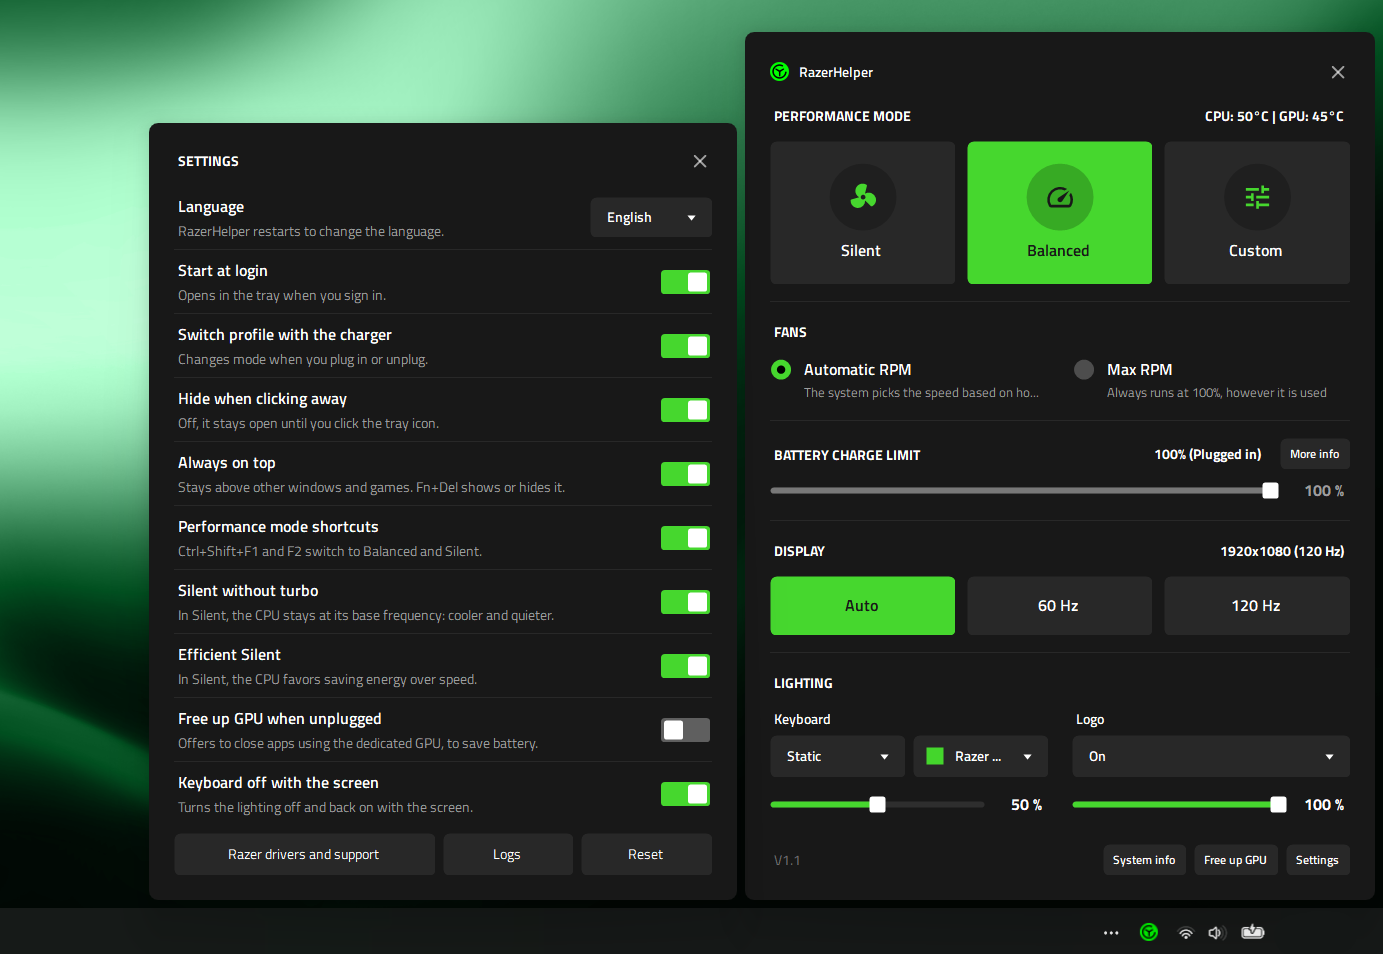
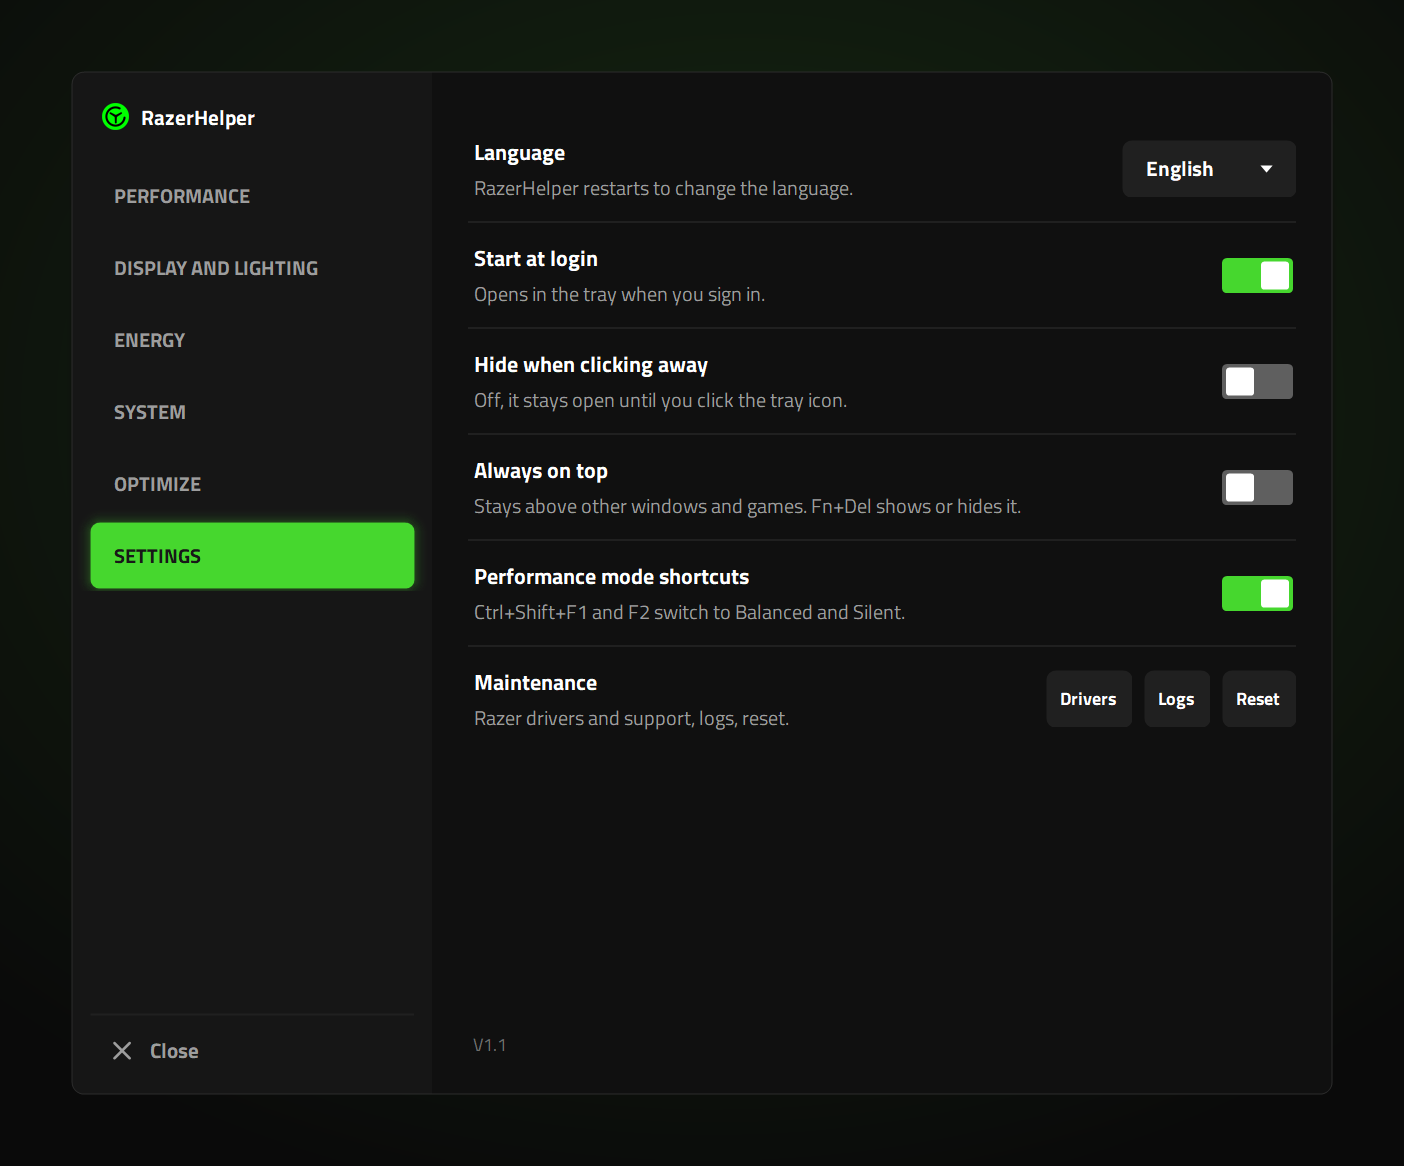
Shows every section in the README's previews, at 1.5 times the base size
One picture each of Performance, Custom, Display and lighting, Energy,
System, Optimize and Settings, with a short summary of each, in place of
the old previews of the single window.

diff --git a/README.md b/README.md
@@ -14,22 +14,42 @@ It lives in the system tray, talks to the laptop's controller directly, and need
 
 ## Preview
 
+One window, in sections, like Synapse: a sidebar on the left and the chosen section beside it.
+
+- **Performance:** Silent, Balanced and Custom as large buttons, with live CPU, GPU and RAM usage rings, temperatures and clocks under them, the fans, and the battery charge limit.
+- **Custom levels in place:** choosing Custom opens the CPU and GPU boost levels right under the modes.
+- **Display and lighting:** refresh rate (Auto, 60 Hz, 120 Hz), keyboard and logo effects with their brightness, and the keyboard off with the screen.
+- **Energy:** live battery details, a performance profile for plugged in and for on battery, and Windows' power plan, with one click to install the Razer Blade plan.
+- **System:** the model, Windows, CPU, both GPUs, RAM, BIOS and the drives with their space.
+- **Optimize:** free up memory, clean temporary files, and close the apps keeping the dedicated GPU awake.
+- **Settings:** language, start at login, hide when clicking away, always on top, performance mode shortcuts, and maintenance.
+
 <p align="center">
-  <img src="docs/images/preview-main.png" width="800" alt="RazerHelper on the desktop above the tray: performance modes (Balanced selected) with CPU and GPU temperatures, fans, battery charge limit, display refresh rate, lighting with keyboard and logo, and the footer buttons">
+  <img src="docs/images/preview-performance.png" width="800" alt="RazerHelper's Performance section: the Silent, Balanced and Custom mode buttons with Balanced selected, CPU, GPU and RAM usage rings with temperature, clock, memory speed and free memory, the fans set to automatic, and the battery charge limit">
 </p>
 
-On the desktop, with the Custom mode's CPU and GPU levels open beside the window, with Settings, and with System information:
-
 <p align="center">
-  <img src="docs/images/preview-custom.png" width="800" alt="RazerHelper on the desktop with Custom selected and the Custom window beside it: CPU and GPU boost levels with their temperature, usage and clock speeds">
+  <img src="docs/images/preview-custom.png" width="800" alt="The Performance section in Custom mode: CPU boost levels Low, Medium, High and Boost, and GPU levels Low, Medium and High, open under the mode buttons">
 </p>
 
 <p align="center">
-  <img src="docs/images/preview-settings.png" width="800" alt="RazerHelper on the desktop with the Settings window beside it: language, start at login, switch profile with the charger, hide when clicking away, always on top, performance mode shortcuts, free up GPU when unplugged and keyboard off with the screen">
+  <img src="docs/images/preview-display.png" width="800" alt="The Display and lighting section: refresh rate buttons Auto, 60 and 120 Hz, keyboard and logo lighting effects with brightness sliders, and the keyboard off with the screen switch">
 </p>
 
 <p align="center">
-  <img src="docs/images/preview-system-info.png" width="800" alt="RazerHelper on the desktop with the System information window beside it: model, operating system, CPU, integrated and dedicated GPU, RAM, BIOS and disk space">
+  <img src="docs/images/preview-energy.png" width="800" alt="The Energy section: battery power, time left, charge, health, voltage and type, the power source profiles for plugged in and on battery, and the power plan list with the Install Razer Blade plan button">
+</p>
+
+<p align="center">
+  <img src="docs/images/preview-system.png" width="800" alt="The System section: model, operating system, CPU, integrated and dedicated GPU, RAM in use, BIOS and the system drive's space">
+</p>
+
+<p align="center">
+  <img src="docs/images/preview-optimize.png" width="800" alt="The Optimize section: free up memory, temporary files to clean, free up GPU, and the free up GPU when unplugged switch">
+</p>
+
+<p align="center">
+  <img src="docs/images/preview-settings.png" width="800" alt="The Settings section: language, start at login, hide when clicking away, always on top, performance mode shortcuts, and maintenance with Drivers, Logs and Reset, with the version at the bottom">
 </p>
 
 The tray icon takes the color of the current performance mode, and hovering it names the mode, as in "RazerHelper (Silent)":

diff --git a/CHANGELOG.md b/CHANGELOG.md
@@ -41,6 +41,8 @@ Changes made in this fork by [jdsgnrinfo](https://github.com/jdsgnrinfo) on top 
 - **Usage rings** under the performance modes (and under Custom's levels when open): how busy the CPU, the GPU and the RAM are, each ring three quarters of a circle filling in green, with the CPU's and GPU's temperature and clock beside theirs and the RAM's speed and free memory beside its own. Read once a second, only while Performance is on screen; a sleeping GPU shows as asleep rather than being woken. They replace the temperatures that were in the Performance header.
 - **A soft glow** around the selected green buttons: the performance modes, Custom's levels, the refresh rates, the profiles in Energy and Install Razer Blade plan.
 - **The sidebar's sections** are named in capitals, with no icons, and the lit one is filled green with dark text and the same soft green glow as the other selected buttons; Under the pointer an entry's name turns green, with no fill; Close keeps its icon.| GPU: 45°C".
+- **Custom's levels** use the same font as Energy's profile buttons, so "Medium" fits whole; the automatic fan's hint is shorter in English, so it no longer gets cut off.
+- **New previews** in the README: one picture of each section (Performance, Custom, Display and lighting, Energy, System, Optimize, Settings), drawn at 1.5 times the base size, with a short summary of each.
 - The charge limit slider shows the chosen limit at its right, like the lighting sliders.
 - **Any percentage on every slider:** the charge limit takes any value from 60% to 100% (it offered only 60, 80 and 100) and the lighting brightness any value from 0% to 100% (it went in steps of 5). The thumb follows the pointer while dragging and glides into place on release.
 - **The keyboard brightness slider follows the Fn keys:** while the window is open, changing the keyboard brightness with the laptop's Fn keys moves the slider too.
